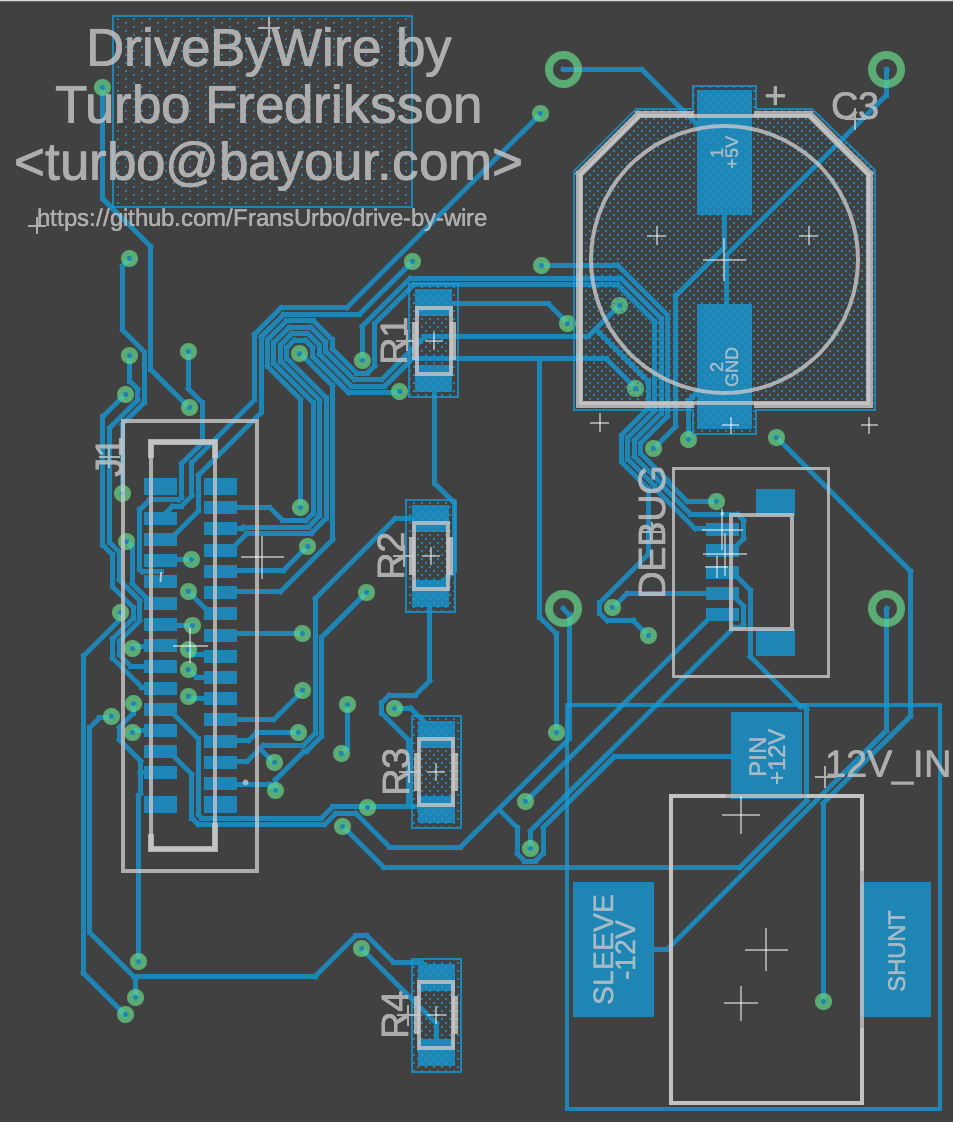
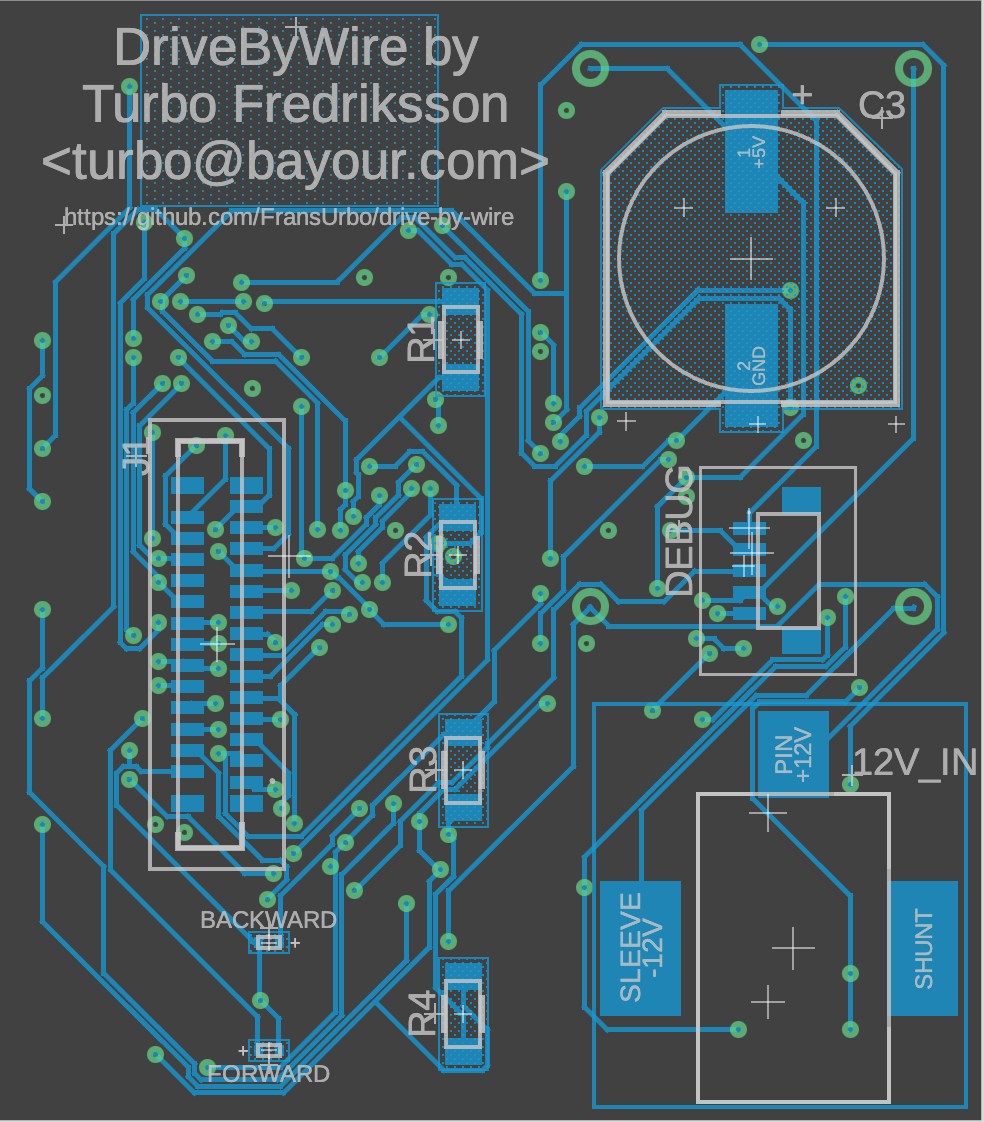
Rearrange pins for up-comming CAN bus managers.
I'll need *four* pins for SPI: GPIO#16-19 (Pin#21-22,24-25).
* GPIO0  -> GPIO26	Button (Switch - N)
* GPIO1  -> GPIO27	Button (Switch - D)
* GPIO16 -> GPIO0	Fingerprint Scanner (UART0/RX)
* GPIO17 -> GPIO1	Fingerprint Scanner (UART0/TX)
* GPIO18 -> GPIO20	Button (Telltale - R)
* GPIO19 -> GPIO21	EIS Relay (#1 - steering lock) (GREEN)
* GPIO20 -> GPIO19	CAN #0 (SPI0/TX)
* GPIO21 -> GPIO16	CAN #0 (SPI0/RX)
* GPIO17		CAN #0 (SPI0/CSn) <-> NEW
* GPIO18		CAN #0 (SPI0/SCK) <-> NEW

+ Update all the images, including some new photos of "The Box".
+ Update the README with todays adventures.

diff --git a/code/src/lib_resources.rs b/code/src/lib_resources.rs
@@ -5,68 +5,122 @@ use embassy_rp::{peripherals, Peri};
 pub const ADDR_OFFSET: u32 = 0x100000;
 pub const FLASH_SIZE: usize = 2 * 1024 * 1024;
 
+#[cfg_attr(any(), rustfmt::skip)]
 assign_resources! {
     serial: PeriSerial {
-        uart: UART1,
-        dma: DMA_CH4,
-        tx: PIN_4,
-        rx: PIN_5
+        uart:		UART1,
+        dma:		DMA_CH4,
+        tx:		PIN_4,
+        rx:		PIN_5
     },
     builtin: PeriBuiltin {
-        pin: PIN_25
+        pin:		PIN_25
     },
     neopixel: PeriNeopixel {
-        pio: PIO0,
-        dma: DMA_CH2,
-        pin: PIN_15
+        pio:		PIO0,
+        dma:		DMA_CH2,
+        pin:		PIN_15
     },
     watchdog: PeriWatchdog {
-        peri: WATCHDOG
+        peri:		WATCHDOG
     },
     eis: PeriEis {
-        lock: PIN_19,
-        start: PIN_22
+        lock:		PIN_21,
+        start:		PIN_22
     },
     flash: PeriFlash {
-        peri: FLASH,
-        dma: DMA_CH3
+        peri:   	FLASH,
+        dma:    	DMA_CH3
     },
     actuator: PeriActuator {
-        adc: ADC,
-        mplus: PIN_10,
-        mminus: PIN_11,
-        vsel: PIN_12,
-        pot: PIN_28
+        adc:		ADC,
+        mplus:		PIN_10,
+        mminus:		PIN_11,
+        vsel:		PIN_12,
+        pot:		PIN_28
     },
     fpscan: PeriFPScanner {
-        uart: UART0,
-        send_pin: PIN_16,  // UART0
-        send_dma: DMA_CH0,
-        recv_pin: PIN_17, // UART0
-        recv_dma: DMA_CH1,
-        wakeup: PIN_13  // UART0
+        uart:		UART0,
+        send_pin:	PIN_0,		// UART0
+        send_dma:	DMA_CH0,
+        recv_pin:	PIN_1,		// UART0
+        recv_dma:	DMA_CH1,
+        wakeup:		PIN_13		// UART0
     },
     buttons: PeriButtons {
-        p_but: PIN_2,
-        p_led: PIN_14,
-        r_but: PIN_3,
-        r_led: PIN_18,
-        n_but: PIN_0, // UART0
-        n_led: PIN_8, // UART1
-        d_but: PIN_1, // UART0
-        d_led: PIN_9 // UART1
+        p_but:		PIN_2,
+        p_led:		PIN_14,
+        r_but:		PIN_3,
+        r_led:		PIN_20,
+        n_but:		PIN_26,		// UART0
+        n_led:		PIN_8,		// UART1
+        d_but:		PIN_27,		// UART0
+        d_led:		PIN_9		// UART1
     },
     can: PeriCan {
-        tx: PIN_20,
-        rx: PIN_21
+        send_pin:	PIN_19,
+        send_dma:	DMA_CH5,
+        recv_pin:	PIN_16,
+        recv_dma:	DMA_CH6,
+        csn_pin:	PIN_17,
+        sck_pin:	PIN_18,
+        spi:		SPI0
     },
     ups: PeriPowerMonitor {
-        sda: PIN_6,
-        scl: PIN_7,
-        i2c: I2C1
+        sda:		PIN_6,
+        scl:		PIN_7,
+        i2c:		I2C1
     }
 }
 
-// Free pins:
-// * PIN_26,
-// * PIN_27
+// # Pins:
+// * PIN_0	PeriFPScanner:send_pin
+// * PIN_1	PeriFPScanner:recv_pin
+// * PIN_2	PeriButtons:p_but
+// * PIN_3	PeriButtons:r_but
+// * PIN_4	PeriSerial:tx
+// * PIN_5	PeriSerial:rx		Unused
+// * PIN_6	PeriPowerMonitor:sda
+// * PIN_7	PeriPowerMonitor:scl
+// * PIN_8	PeriButtons:n_led
+// * PIN_9	PeriButtons:d_led
+// * PIN_10	PeriActuator:mplus
+// * PIN_11	PeriActuator:mminus
+// * PIN_12	PeriActuator:vsel	Unused
+// * PIN_13	PeriFPScanner:wakeup
+// * PIN_14	PeriButtons:p_led
+// * PIN_15	PeriNeopixel:pin
+// * PIN_16	PeriCan:recv_pin
+// * PIN_17	PeriCan:csn_pin
+// * PIN_18	PeriCan:sck_pin
+// * PIN_19	PeriCan:send_pin
+// * PIN_20	PeriButtons:r_led
+// * PIN_21	PeriEis:PIN_21
+// * PIN_22	PeriEis:start
+// * PIN_23				Unknown
+// * PIN_24				Unknown
+// * PIN_25	PeriBuiltin:pin
+// * PIN_26	PeriButtons:n_but
+// * PIN_27	PeriButtons:d_but
+// * PIN_28	PeriActuator:pot
+//
+// # DMA:
+// * DMA_CH0	PeriFPScanner:send_dma
+// * DMA_CH1	PeriFPScanner:recv_dma
+// * DMA_CH2	PeriNeopixel:dma
+// * DMA_CH3	PeriFlash:dma
+// * DMA_CH4	PeriSerial:dma
+// * DMA_CH5	PeriCan:send_dma
+// * DMA_CH6	PeriCan:recv_dma
+//
+// # UART
+// * UART0	PeriFPScanner:uart
+// * UART1	PeriSerial:uart
+//
+// # Other
+// * PIO0	PeriNeopixel:pio
+// * SPI0	PeriCan:spi
+// * ADC	PeriActuator:adc
+// * I2C1	PeriPowerMonitor:i2c
+// * FLASH	PeriFlash:peri
+// * WATCHDOG	PeriWatchdog:peri

diff --git a/README.md b/README.md
@@ -168,26 +168,26 @@ Q: Can DriveByWire check CAN for certain buttons around the car
 
 | <div style="width:25px">Pin</div> | UARTx | <div style="width:75px">Port</div> | <div style="width:280px">Use</div> | <div style="width:25px">Pin</div> | UARTx | <div style="width:75px">Port</div> | <div style="width:280px">Use</div>
 | --: |  :-:  | :------ | :------------------------------ | --: |  :-:  | :------------------ | :------------------------------------- |
-|   1 | ~~0~~ | GPIO  0 | Button (Switch - N)             | 40  |       | VBUS                |                                        |
-|   2 | ~~0~~ | GPIO  1 | Button (Switch - D)             | 39  |       | VSYS                |                                        |
+|   1 | ~~0~~ | GPIO  0 | Fingerprint Scanner (UART0/RX)  | 40  |       | VBUS                |                                        |
+|   2 | ~~0~~ | GPIO  1 | Fingerprint Scanner (UART0/TX)  | 39  |       | VSYS                |                                        |
 |   3 |       | GND     |                                 | 38  |       | GND                 |                                        |
 |   4 |       | GPIO  2 | Button (Switch - P)             | 37  |       | 3V3_EN              |                                        |
 |   5 |       | GPIO  3 | Button (Switch - R)             | 36  |       | 3V3_OUT             |                                        |
 |   6 | **1** | GPIO  4 | Debug (TX)                      | 35  |       | ADC_VREF            | Actuator Feedback - +5V                |
 |   7 | ~~1~~ | GPIO  5 | Debug (RX)                      | 34  |       | GPIO 28<br>ADC2     | Actuator Feedback - Brush              |
 |   8 |       | GND     |                                 | 33  |       | GND<br>AGND         | Actuator Feedback - GND                |
-|   9 |       | GPIO  6<br>I2C1/SDA | Power monitor (SDA) | 32  |       | GPIO 27<br>I2C1/SCL | ~~Future Use~~                         |
-|  10 |       | GPIO  7<br>I2C1/SCL | Power monitor (SCL) | 31  |       | GPIO 26<br>I2C1/SDA | ~~Future Use~~                         |
+|   9 |       | GPIO  6<br>I2C1/SDA | Power monitor (SDA) | 32  |       | GPIO 27             | Button (Switch - D)                    |
+|  10 |       | GPIO  7<br>I2C1/SCL | Power monitor (SCL) | 31  |       | GPIO 26             | Button (Switch - N)                    |
 |  11 | ~~1~~ | GPIO  8 | Button (Telltale - N)           | 30  |       | RUN                 |                                        |
 |  12 | ~~1~~ | GPIO  9 | Button (Telltale - D)           | 29  |       | GPIO 22             | EIS Relay (#3 - start) (YELLOW)        |
 |  13 |       | GND     | ~~*[GPIO 29]*~~                 | 28  |       | GND                 | ~~*[GPIO 23]*~~                        |
-|  14 |       | GPIO 10 | Actuator - Motor Relay (#1)     | 27  |       | GPIO 21             | CAN #0 (RX)                            |
-|  15 |       | GPIO 11 | Actuator - Motor Relay (#2)     | 26  |       | GPIO 20             | CAN #0 (TX)                            |
-|  16 | ~~0~~ | GPIO 12 | ~~Actuator - +5V/+12V select~~  | 25  |       | GPIO 19             | EIS Relay (#1 - steering lock) (GREEN) |
-|  17 | ~~0~~ | GPIO 13 | Fingerprint Scanner (WAKEUP)    | 24  |       | GPIO 18             | Button (Telltale - R)                  |
+|  14 |       | GPIO 10 | Actuator - Motor Relay (#1)     | 27  |       | GPIO 21             | EIS Relay (#1 - steering lock) (GREEN) |
+|  15 |       | GPIO 11 | Actuator - Motor Relay (#2)     | 26  |       | GPIO 20             | Button (Telltale - R)                  |
+|  16 | ~~0~~ | GPIO 12 | ~~Actuator - +5V/+12V select~~  | 25  |       | GPIO 19             | CAN #0 (SPI0/TX)                       |
+|  17 | ~~0~~ | GPIO 13 | Fingerprint Scanner (WAKEUP)    | 24  |       | GPIO 18             | CAN #0 (SPI0/SCK)                      |
 |  18 |       | GND     | ~~*[GPIO 25]*~~                 | 23  |       | GND                 | ~~*[GPIO 24]*~~                        |
-|  19 |       | GPIO 14 | Button (Telltale - P)           | 22  | **0** | GPIO 17             | Fingerprint Scanner (TX)               |
-|  20 |       | GPIO 15 | Status LED (Data IN)            | 21  | **0** | GPIO 16             | Fingerprint Scanner (RX)               |
+|  19 |       | GPIO 14 | Button (Telltale - P)           | 22  | **0** | GPIO 17             | CAN #0 (SPI0/CSn)                      |
+|  20 |       | GPIO 15 | Status LED (Data IN)            | 21  | **0** | GPIO 16             | CAN #0 (SPI0/RX)                       |
 
 * LED | GPIO 25
 * Crossed-out GPIOx: Not using it as a UART, but "regular" (?) Input/Output.
@@ -507,9 +507,12 @@ My [components library](https://a360.co/4cwNAcc) can also be found on that site.
 
 ## Wiring on bread boards
 
-Those CAN bus adaptors I can't apparently used. They're for a high-speed CAN, but the MB I have have a low-frequency,
-fault-tolerant CAN :(. Something using the TJA1055T1 chip for the CAN and a MCP2515 for interfacing with the Pico. I'll
-figure something out..
+This was the very first version on breadboards.. It looked so simple back then :).
+
+Those CAN bus adaptors I can't use. They're for a high-speed CAN, but the MB I have have a low-frequency, fault-tolerant CAN :(.
+Something using the TJA1055T1 chip for the CAN and a MCP2515 for interfacing with the Pico. I'll figure something out..
+
+And I did figure something out, found a design online, that [a friend](https://github.com/konne88/slk) used as well in his project.
 
 Also, I'm missing the headers for the fingerprint scanner and the actuator in the upper right breadboard.
 
@@ -519,9 +522,11 @@ Also, I'm missing the headers for the fingerprint scanner and the actuator in th
 
 This what it looks like now. I built a box :D :D.
 
-![Latest wiring on bread boards](./images/2024-05-04%2011.09.21.jpg)
+![Latest wiring on bread boards](./images/2026-01-29%2018.42.02.jpg)
 
-![With the buttons folded away](./images/2024-06-24%2011.22.03.jpg)
+![With the buttons folded away](./images/2026-01-29%2018.43.10.jpg)
+
+![Closeup of the breadboards](./images/2026-01-29%2018.43.19.jpg)
 
 ### CAN-bus circuit diagram
 
@@ -656,8 +661,19 @@ unit will be hidden away, so that won't be visible anyway.
 * *Add* to the fingerprint storage, instead of hard-coding the slot it in the `set-fingerprint` app.
 * Catch return status from `change_gear_mode()` - if we fail, just start over listening for commands.
   SHOULD, hopefully, make it more graceful if the actuator isn't connected.
-
 Release v0.4.2.
+
+(Later that night)
+
+I've been fiddling with the CAN bus code on and off for a week or so, but been distracted. Also, it actually scare
+me a little :).
+
+But when I started looking at the crates I'll need ([mcp2518fd](https://github.com/adom-inc/mcp2518fd)), I realised
+that I'm going to need *four* pins for it. I was missing
+[SPI0/SCK and CSn](https://github.com/FransUrbo/drive-by-wire/blob/39550e49a38d86c60b6025bbcd50883cea3a5df9/code/src/lib_resources.rs#L60-L68).
+So I had to move things around quite a bit.
+
+But now I should, finally!, be ready to start working on the CAN bus. Don't have much more distractions, unfortunately :).
 
 ## Update Sun 25 Jan 2026
 
